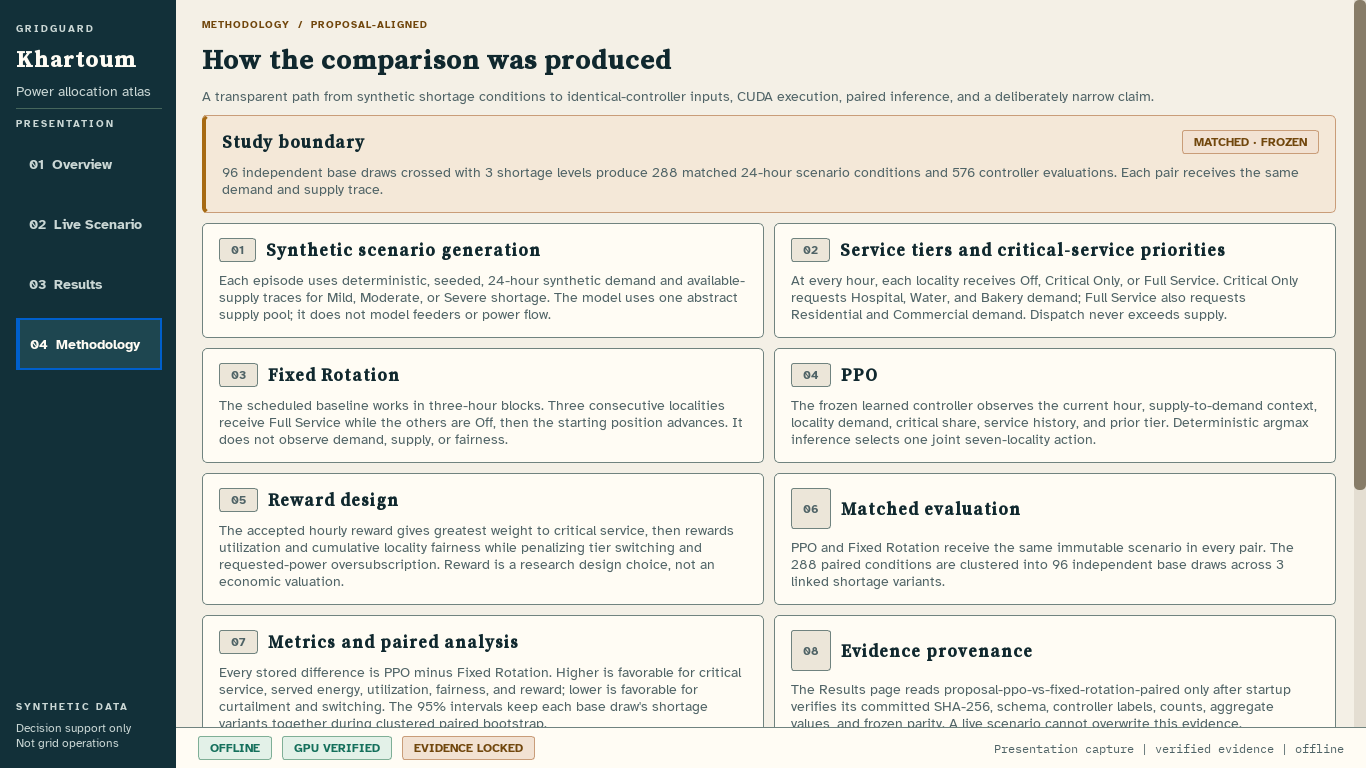
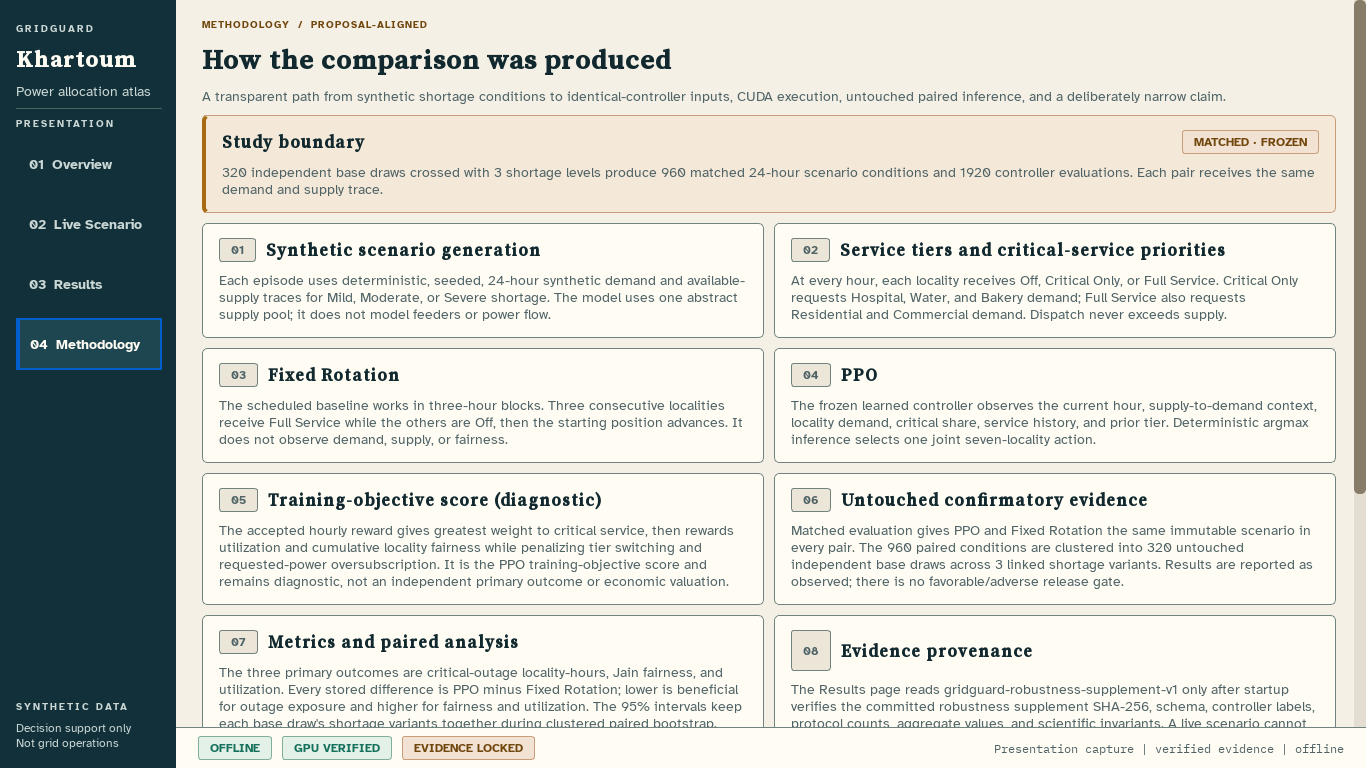
docs: refresh corrected desktop captures

diff --git a/tests/test_screenshot_capture.py b/tests/test_screenshot_capture.py
@@ -2,6 +2,7 @@ from __future__ import annotations
 
 import hashlib
 import importlib.util
+import subprocess
 import sys
 from pathlib import Path
 
@@ -117,3 +118,20 @@ def test_capture_writes_four_distinct_1366_by_768_pngs(
     assert len(digests) == 4
     assert len(rail_header_digests) == 1
     assert len(trust_strip_digests) == 1
+
+
+def test_cli_capture_paints_the_complete_navigation_header_consistently(tmp_path: Path) -> None:
+    result = subprocess.run(
+        [sys.executable, str(CAPTURE_TOOL), "--output-dir", str(tmp_path)],
+        cwd=REPOSITORY_ROOT,
+        capture_output=True,
+        check=False,
+        text=True,
+    )
+
+    assert result.returncode == 0, result.stderr
+    header_digests = {
+        _region_digest(QImage(str(path)), QRect(0, 0, 176, 125))
+        for path in sorted(tmp_path.glob("*.png"))
+    }
+    assert len(header_digests) == 1
